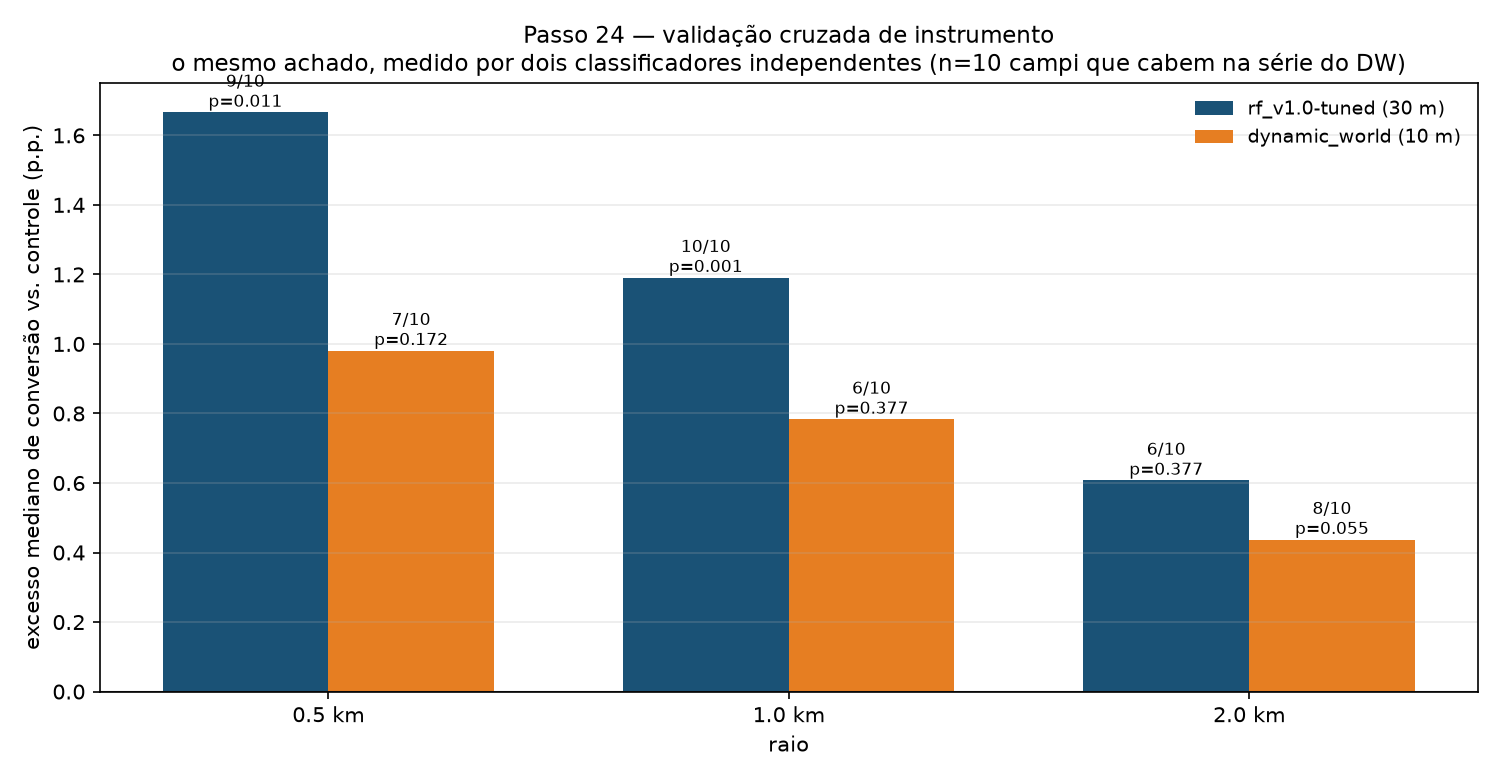
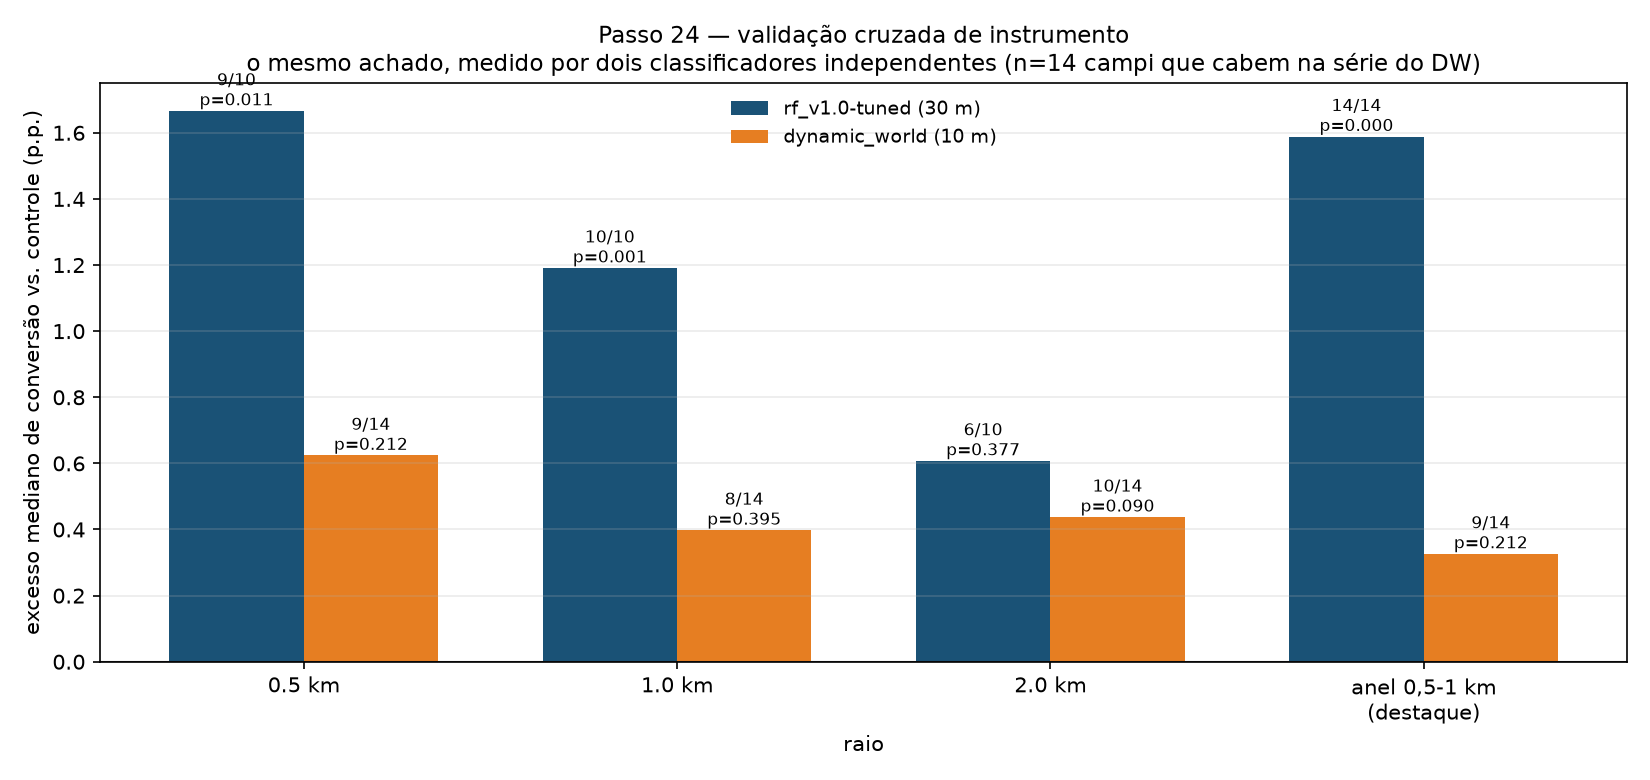
Passo 24: valida o ANEL de destaque, com 14 campi -- e ele NAO replica
Duas correcoes no mesmo passo, e a segunda muda o que sabemos.

1. Geometria. O passo media so DISCOS (dist <= r). Mas desde o passo 26 o
   resultado de destaque do relatorio e o ANEL de 0,5-1 km. A validacao
   cruzada estava validando uma geometria que o relatorio nao usa mais --
   ou seja, o achado principal nunca tinha sido testado contra outro
   classificador. Agora as duas geometrias sao medidas.

2. Amostra. campi_elegiveis() lia so pareamento_controle_rf.csv (os 15
   originais). Passa a incluir os pares `ok` da expansao, com procedencia
   marcada: 9 -> 14 campi.

O lado RF do anel vem de analise_expandida.csv, onde o mascaramento direto
sobre o raster e feito; os discos continuam vindo do passo 12.

RESULTADO, nos mesmos 14 campi, anel 0,5-1 km:

  rf_v1.0-tuned    14/14  p=0,0001  mediana +1,589 pp
  dynamic_world     9/14  p=0,2120  mediana +0,326 pp

A direcao replica -- mediana positiva em todos os raios, 9 de 14 pares
positivos. A significancia NAO replica, e a magnitude fica ~5x menor sob o
DW. O selo PARCIAL se confirma, agora sobre o numero que vai a banca.

Isso tambem fecha a porta da expansao americana via DW direto: nao da para
usar nos EUA um instrumento que nao reproduz nosso achado no Brasil.

Claude-Session: https://claude.ai/code/session_01SJ4igELmiWqFDcBCo1yBBt

diff --git a/dados-modelo-impacto/scripts/impacto_dc_24_validacao_dynamic_world.py b/dados-modelo-impacto/scripts/impacto_dc_24_validacao_dynamic_world.py
@@ -29,9 +29,16 @@ Três razões, e a terceira é a que mais importa:
 
 ## O limite, e quem entra
 
-A série do DW começa em **junho de 2015**. Com a janela `obra-3 .. obra+3`, só campi com obra entre
-**2018 e 2022** cabem — **9 dos 15**. É amostra suficiente para a checagem, e não é escolha nossa:
-é o que o instrumento permite.
+A série do DW começa em **junho de 2015**. Com a janela `obra-3 .. obra+3`, só entram campi cuja
+janela inteira caia de 2016 em diante — **14 dos 20** desde a expansão do passo 25 (eram 9 quando a
+amostra tinha 15). Não é escolha nossa: é o que o instrumento permite.
+
+## A geometria: discos E o anel de destaque
+
+Este passo mediu por muito tempo só **discos** (0,5 / 1 / 2 km). Desde o passo 26, o resultado de
+destaque do relatório é o **anel de 0,5–1 km** — que nunca contém o prédio. Validar só o disco
+seria validar uma geometria que o relatório não usa mais. Agora as duas são medidas, e o lado RF
+do anel vem de `analise_expandida.csv`, onde o mascaramento direto sobre o raster é feito.
 
 ## Uma diferença deliberada
 
@@ -84,6 +91,8 @@ DIR_DW = C.DIR_SAIDA / "dynamic_world"
 RESOLUCAO_DW = 10
 DW_ANO_MIN = 2016  # 1o ano cheio; a colecao comeca em jun/2015
 RAIOS_KM = [0.5, 1.0, 2.0]
+# recorte do resultado de destaque (passo 26): anel, nao disco -- nunca contem o predio
+ANEL_DESTAQUE = "0.5-1km"
 N_PONTA = 2
 
 # DW label -> classe do projeto
@@ -94,13 +103,34 @@ SAIDA_COMP = C.DIR_SAIDA / "dw_comparacao.csv"
 SAIDA_FIGURA = C.DIR_FIGURAS / "fig_17_validacao_dw.png"
 
 
+COLS_PAREAMENTO = [
+    "site_id", "lat", "lon", "ano_inicio_obra", "sensor",
+    "site_id_controle", "lat_controle", "lon_controle",
+]
+
+
 def campi_elegiveis() -> pd.DataFrame:
-    """Campi cuja janela inteira cabe na série do Dynamic World."""
-    par = pd.read_csv(C.DIR_SAIDA / "pareamento_controle_rf.csv")
+    """Campi cuja janela inteira cabe na série do Dynamic World.
+
+    Inclui os 15 originais e os 5 da expansão (passo 25), com `procedencia`
+    marcada — a mesma disciplina do passo 26: o achado é reportado com e sem os
+    campi que não passaram pela validação de coordenada em 5 camadas.
+    """
+    orig = pd.read_csv(C.DIR_SAIDA / "pareamento_controle_rf.csv")
+    orig = orig[COLS_PAREAMENTO].copy()
+    orig["procedencia"] = "validado_5_camadas"
+
+    caminho_exp = C.DIR_SAIDA / "expansao_pareamento.csv"
+    if caminho_exp.exists():
+        exp = pd.read_csv(caminho_exp)
+        exp = exp[exp.status == "ok"][COLS_PAREAMENTO + ["procedencia"]].copy()
+        par = pd.concat([orig, exp], ignore_index=True)
+    else:
+        par = orig
+
     par = par[par.site_id_controle.notna() & (par.site_id_controle != "")].copy()
     par["anos"] = par.ano_inicio_obra.astype(int).map(lambda o: C.janela_anos(o))
-    cabe = par[par.anos.map(lambda a: min(a) >= DW_ANO_MIN)]
-    return cabe
+    return par[par.anos.map(lambda a: min(a) >= DW_ANO_MIN)].reset_index(drop=True)
 
 
 def _grade_10m(lat: float, lon: float) -> dict:
@@ -162,8 +192,14 @@ def fase_baixar() -> None:
     print(f"\n{total} rasters DW baixados")
 
 
-def _mascaras_raio(caminho: Path, lat: float, lon: float) -> dict[float, np.ndarray]:
-    """Máscaras de disco na grade do próprio raster (10 m aqui, não 30 m)."""
+def _mascaras_raio(caminho: Path, lat: float, lon: float) -> dict[object, np.ndarray]:
+    """Máscaras na grade do próprio raster (10 m aqui, não 30 m).
+
+    Devolve os **discos** históricos (0,5 / 1 / 2 km) e também o **anel de
+    0,5–1 km**, que é o recorte do resultado de destaque desde o passo 26. Sem o
+    anel, esta validação cruzada mediria uma geometria que o relatório não usa
+    mais — validaria o número antigo, não o que vai à banca.
+    """
     with rasterio.open(caminho) as src:
         transform, largura, altura, crs = src.transform, src.width, src.height, src.crs
     cols = np.arange(largura, dtype=float) + 0.5
@@ -176,7 +212,9 @@ def _mascaras_raio(caminho: Path, lat: float, lon: float) -> dict[float, np.ndar
     from pyproj import Geod
     geod = Geod(ellps="WGS84")
     _, _, dist = geod.inv(np.full_like(lons, lon), np.full_like(lats, lat), lons, lats)
-    return {r: dist <= r * 1000 for r in RAIOS_KM}
+    mascaras: dict[object, np.ndarray] = {r: dist <= r * 1000 for r in RAIOS_KM}
+    mascaras[ANEL_DESTAQUE] = (dist > 500) & (dist <= 1000)
+    return mascaras
 
 
 def _empilhar_dw(pid: str, anos: list[int]) -> np.ndarray | None:
@@ -225,7 +263,7 @@ def fase_analise() -> None:
                 registros = [x for x in registros if x["campus"] != r.site_id]
                 break
             raios = _mascaras_raio(DIR_DW / pid / f"{anos[0]}.tif", lat, lon)
-            for raio in RAIOS_KM:
+            for raio in [*RAIOS_KM, ANEL_DESTAQUE]:
                 cont = _assinaturas(pilha, raios[raio])
                 n = cont["pixels_validos_mascara"]
                 registros.append({
@@ -242,15 +280,28 @@ def fase_analise() -> None:
     C.salvar_csv(dw, SAIDA)
 
     # ---------------------------------------------------------------- DW vs. rf_v1.0-tuned
-    rf = pd.read_csv(C.DIR_SAIDA / "trajetoria_pixel.csv")
+    # O lado RF vem de duas tabelas, porque as duas geometrias vivem em lugares
+    # diferentes: os discos historicos no passo 12, e o anel de destaque no passo 26
+    # (que e onde o mascaramento direto sobre o raster passou a ser feito).
+    rf_disco = pd.read_csv(C.DIR_SAIDA / "trajetoria_pixel.csv")
+    caminho_anel = C.DIR_SAIDA / "analise_expandida.csv"
+    rf_anel = pd.read_csv(caminho_anel) if caminho_anel.exists() else None
+
     campi_dw = set(dw.campus.unique())
     linhas = []
-    for raio in RAIOS_KM:
+    for raio in [*RAIOS_KM, ANEL_DESTAQUE]:
+        eh_anel = raio == ANEL_DESTAQUE
+        if eh_anel and rf_anel is None:
+            print("  ! analise_expandida.csv ausente: anel de destaque sem lado RF")
+            continue
+        fontes = [("dynamic_world", dw, "campus", "raio_km")]
+        fontes.append(("rf_v1.0-tuned", rf_anel, "campus", "zona") if eh_anel
+                      else ("rf_v1.0-tuned", rf_disco, "pareado_com", "raio_km"))
+
         for assin in ("virou_construida", "vegetacao_para_construida"):
             col = f"pct_{assin}"
-            for nome, tab, chave in (("dynamic_world", dw, "campus"),
-                                     ("rf_v1.0-tuned", rf, "pareado_com")):
-                g = tab[(tab.raio_km == raio) & (tab[chave].isin(campi_dw))]
+            for nome, tab, chave, col_geo in fontes:
+                g = tab[(tab[col_geo] == raio) & (tab[chave].isin(campi_dw))]
                 difs = []
                 for _, par in g.groupby(chave):
                     t = par[par.tipo == "tratamento"][col]
@@ -274,21 +325,28 @@ def fase_analise() -> None:
 
     # ---------------------------------------------------------------- figura
     prin = comp[comp.assinatura == "virou_construida"]
-    fig, ax = plt.subplots(figsize=(10, 5.2))
-    x = np.arange(len(RAIOS_KM))
+    # ordem explicita: os discos, e por ultimo o anel de destaque. `raio_km` mistura
+    # float e str desde que o anel entrou, entao sort_values() nao serve.
+    ordem = [*RAIOS_KM, ANEL_DESTAQUE]
+    rotulos = [f"{r} km" for r in RAIOS_KM] + ["anel 0,5-1 km\n(destaque)"]
+    fig, ax = plt.subplots(figsize=(11, 5.2))
+    x = np.arange(len(ordem))
     larg = 0.36
     for i, (nome, cor) in enumerate((("rf_v1.0-tuned", "#1A5276"),
                                      ("dynamic_world", "#E67E22"))):
-        s = prin[prin.classificador == nome].sort_values("raio_km")
+        s = (prin[prin.classificador == nome]
+             .set_index("raio_km").reindex(ordem).reset_index())
         ax.bar(x + (i - 0.5) * larg, s.excesso_mediano_pp, larg,
                label=f"{nome} ({'30 m' if i == 0 else '10 m'})", color=cor)
         for j, (_, r0) in enumerate(s.iterrows()):
+            if pd.isna(r0.excesso_mediano_pp):
+                continue
             ax.text(j + (i - 0.5) * larg, r0.excesso_mediano_pp,
                     f"{int(r0.n_positivo)}/{int(r0.n_pares)}\np={r0.p_unilateral:.3f}",
                     ha="center", va="bottom", fontsize=8)
     ax.axhline(0, color="#333", lw=1)
     ax.set_xticks(x)
-    ax.set_xticklabels([f"{r} km" for r in RAIOS_KM])
+    ax.set_xticklabels(rotulos)
     ax.set_xlabel("raio")
     ax.set_ylabel("excesso mediano de conversão vs. controle (p.p.)")
     ax.set_title("Passo 24 — validação cruzada de instrumento\n"
@@ -303,8 +361,9 @@ def fase_analise() -> None:
     print(f"  -> {SAIDA_FIGURA.relative_to(C.REPO_ROOT)}")
 
     print(f"\n--- DW vs rf_v1.0-tuned, nos mesmos {len(campi_dw)} campi ---")
-    for raio in RAIOS_KM:
-        print(f"  raio {raio} km")
+    for raio in [*RAIOS_KM, ANEL_DESTAQUE]:
+        eh = raio == ANEL_DESTAQUE
+        print(f"  {'ANEL 0,5-1 km (DESTAQUE)' if eh else f'raio {raio} km'}")
         for _, r0 in prin[prin.raio_km == raio].iterrows():
             print(f"    {r0.classificador:16s} {int(r0.n_positivo)}/{int(r0.n_pares)}  "
                   f"p={r0.p_unilateral:.4f}  mediana {r0.excesso_mediano_pp:+.3f} pp")
